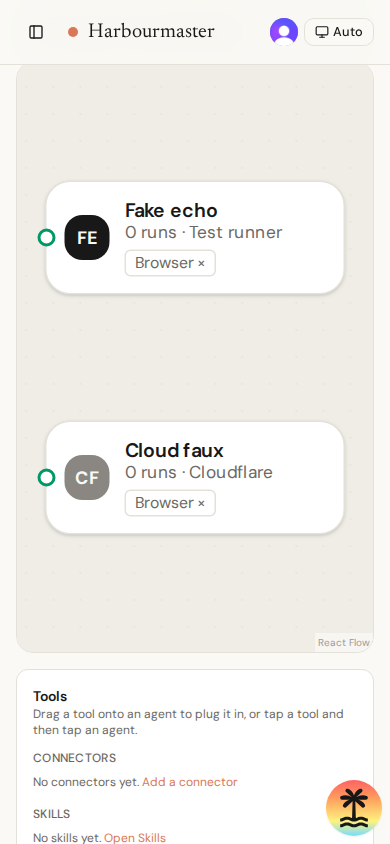
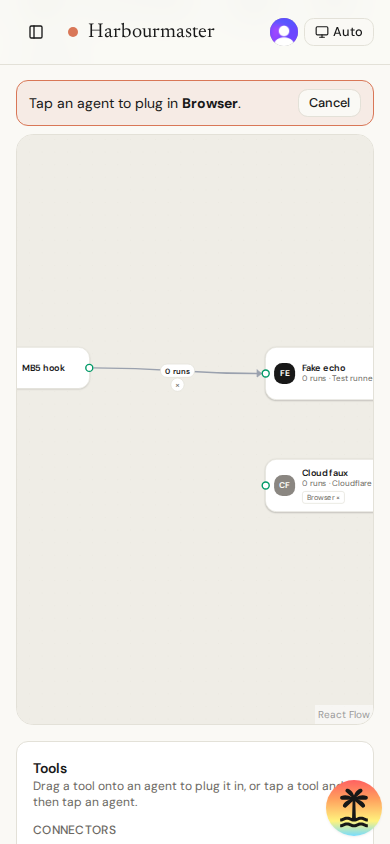
MB.5: touch controls only on phones, tap-to-plug evidence
Claude-Session: https://claude.ai/code/session_012Zvfj7oSNZmirvs3Rh8SbU

diff --git a/apps/web/src/components/map/map-page.tsx b/apps/web/src/components/map/map-page.tsx
@@ -403,7 +403,7 @@ export function MapPage() {
     [editor, deleteWire, plug, unplug]
   );
 
-  const { cancelPick, clearPick, pickTool, picked, selectNode } = useTapToPlug({
+  const { clearPick, pickTool, picked, selectNode } = useTapToPlug({
     boardRef,
     plug,
     select: setSelectedKey,
@@ -443,7 +443,7 @@ export function MapPage() {
         onAnswer={answer}
         onChanged={reload}
         onClose={closeInspector}
-        touch={touch}
+        touch={isMobile ? touch : undefined}
       />
     );
   return (
@@ -478,7 +478,7 @@ export function MapPage() {
             ref={boardRef}
           >
             {picked === null ? null : (
-              <PickBanner item={picked} onCancel={cancelPick} />
+              <PickBanner item={picked} onCancel={clearPick} />
             )}
             <div
               className="h-[min(70vh,640px)] overflow-hidden rounded-xl border border-border"

diff --git a/apps/web/src/components/map/use-tap-to-plug.ts b/apps/web/src/components/map/use-tap-to-plug.ts
@@ -17,11 +17,11 @@ export function useTapToPlug({
   select: (key: string | null) => void;
 }) {
   const [picked, setPicked] = useState<PaletteItem | null>(null);
-  /** Picking brings the map into view, since the palette sits below it on a phone. */
+  /** On a phone the palette sits below the map, so picking brings the map into view. */
   const pickTool = useCallback(
     (item: PaletteItem | null) => {
       setPicked(item);
-      if (item !== null) {
+      if (item !== null && window.matchMedia("(max-width: 767px)").matches) {
         boardRef.current?.scrollIntoView({
           behavior: "smooth",
           block: "start",
@@ -43,5 +43,5 @@ export function useTapToPlug({
     },
     [picked, plug, select]
   );
-  return { cancelPick: clearPick, clearPick, picked, pickTool, selectNode };
+  return { clearPick, picked, pickTool, selectNode };
 }

diff --git a/apps/web/src/components/map/map-inspector-pane.tsx b/apps/web/src/components/map/map-inspector-pane.tsx
@@ -63,7 +63,7 @@ export function MapInspectorPane({
   onAnswer: (view: RequestView, payload: AnswerPayload) => Promise<void>;
   onChanged: () => void;
   onClose: () => void;
-  touch: TouchActions;
+  touch?: TouchActions;
 }) {
   const agentId = agentIdForProfile(graph, node);
   const {
